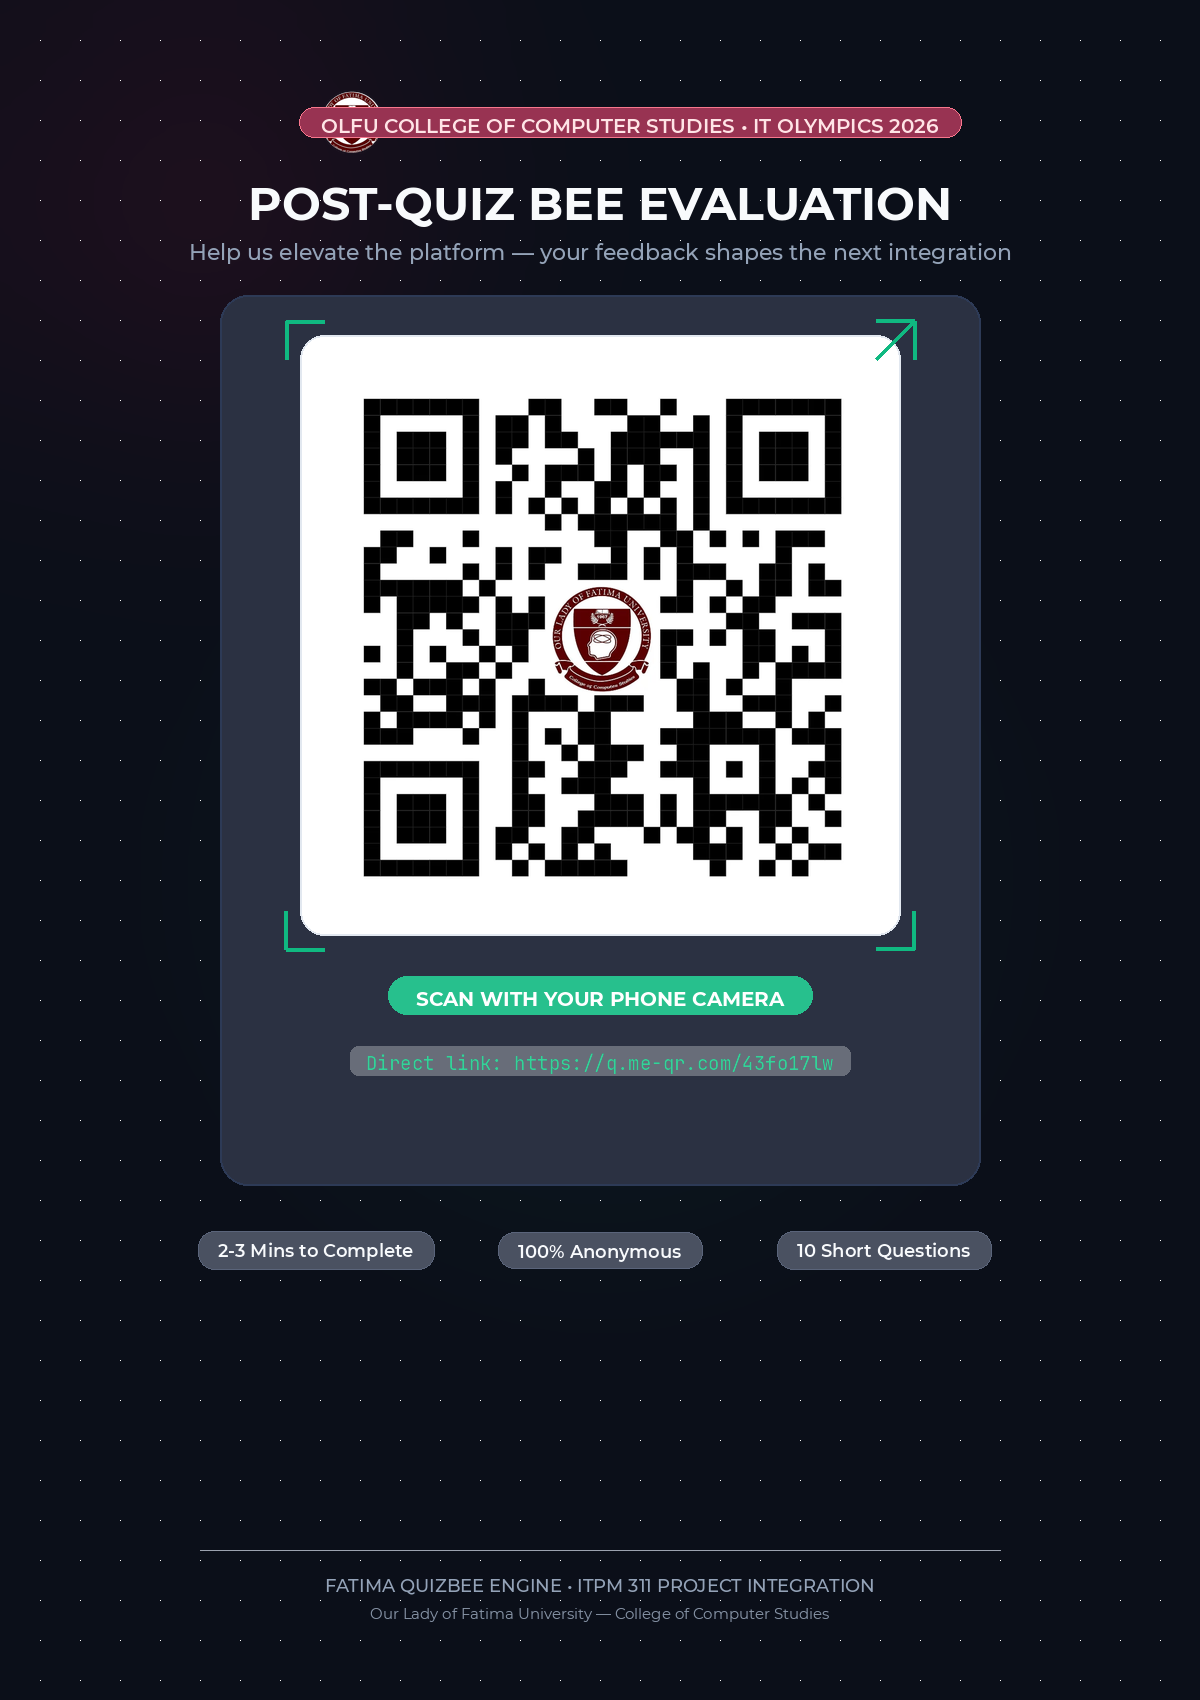
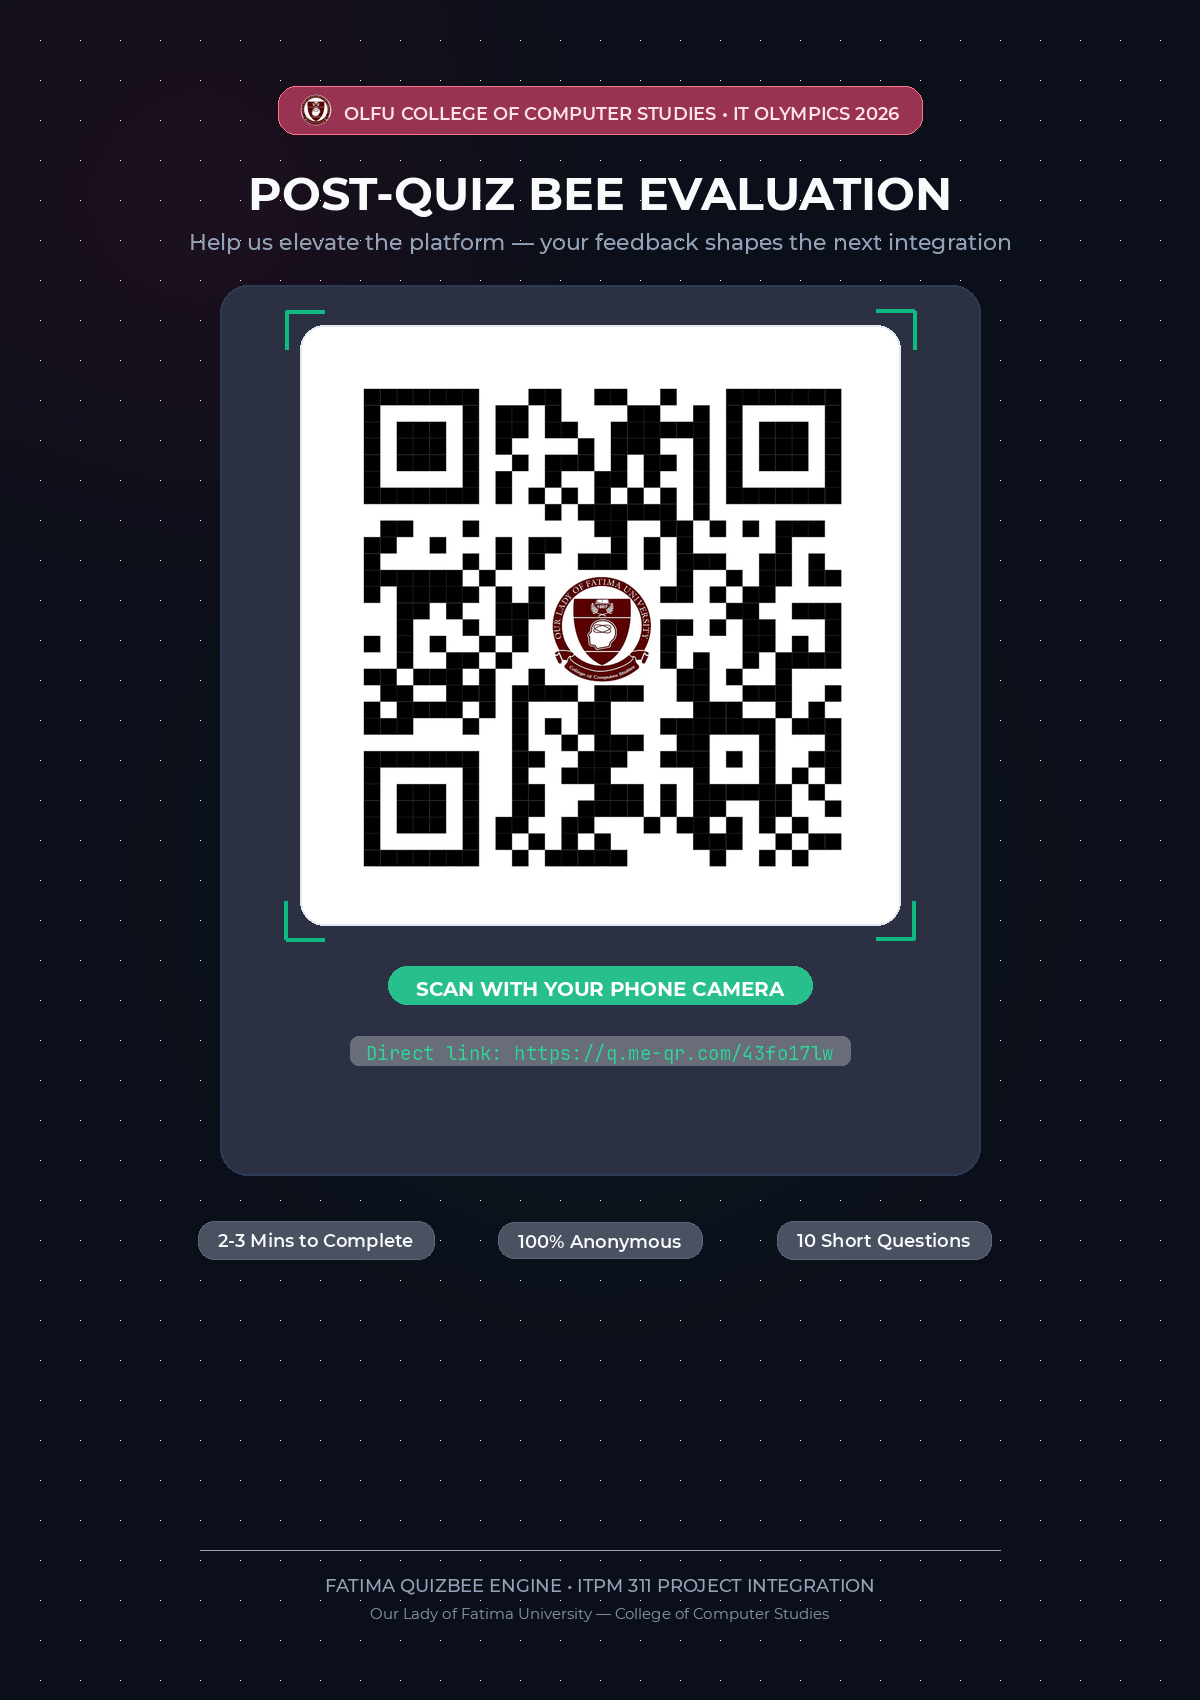
fix(standee): eliminate header emblem overlap and restore symmetrical 90-deg corner reticles

Changed region(s): [[0.1542, 0.0312, 0.8325, 0.6547], [0.1542, 0.6859, 0.8325, 0.7482]]

diff --git a/scripts/generate_qr_frames.py b/scripts/generate_qr_frames.py
@@ -31,8 +31,8 @@ def load_font(path, size):
     except Exception:
         return ImageFont.load_default()
 
-def draw_corner_reticles(draw, box, length=32, thickness=4, color=(16, 185, 129, 255), offset=14):
-    """Draw high-tech minimal camera viewfinder corner brackets."""
+def draw_corner_reticles(draw, box, length=38, thickness=4, color=(16, 185, 129, 255), offset=14):
+    """Draw high-tech minimal camera viewfinder corner brackets (100% uniform 90-degree brackets)."""
     x1, y1, x2, y2 = box
     x1 -= offset
     y1 -= offset
@@ -43,10 +43,8 @@ def draw_corner_reticles(draw, box, length=32, thickness=4, color=(16, 185, 129,
     draw.line([(x1, y1), (x1 + length, y1)], fill=color, width=thickness)
     draw.line([(x1, y1), (x1, y1 + length)], fill=color, width=thickness)
     
-    # Top-Right
+    # Top-Right (FIXED: Perfectly symmetrical horizontal & vertical segments, NO diagonal line!)
     draw.line([(x2, y1), (x2 - length, y1)], fill=color, width=thickness)
-    draw.line([(x2, y1), (x2 - length, y1 + length)], fill=color, width=thickness)
-    # Correct top-right vertical line
     draw.line([(x2, y1), (x2, y1 + length)], fill=color, width=thickness)
     
     # Bottom-Left
@@ -86,6 +84,40 @@ def draw_pill(draw, x, y, text, font, bg_color, text_color, border_color=None, p
     draw.text((x - tw // 2, y - th // 2 - 2), text, font=font, fill=text_color)
     return box
 
+def draw_badge_with_logo(canvas, draw, x, y, text, font, bg_color, text_color, border_color=None,
+                        logo_path=CCS_LOGO_PATH, logo_size=32, pad_x=20, pad_y=7, radius=18, align="center"):
+    """Draw a uniform, perfectly aligned pill badge with inline logo and typography (ZERO overlap)."""
+    tw, th = text_size(draw, text, font)
+    has_logo = os.path.exists(logo_path)
+    actual_logo_w = logo_size if has_logo else 0
+    gap = 12 if has_logo else 0
+    
+    total_inner_w = actual_logo_w + gap + tw
+    pill_w = total_inner_w + pad_x * 2
+    pill_h = max(logo_size, th) + pad_y * 2
+    
+    if align == "center":
+        box = [x - pill_w // 2, y - pill_h // 2, x + pill_w // 2, y + pill_h // 2]
+        start_x = x - total_inner_w // 2
+    else:  # left align
+        box = [x, y - pill_h // 2, x + pill_w, y + pill_h // 2]
+        start_x = x + pad_x
+        
+    draw.rounded_rectangle(box, radius=radius, fill=bg_color, outline=border_color, width=1 if border_color else 0)
+    
+    if has_logo:
+        try:
+            logo = Image.open(logo_path).convert("RGBA")
+            logo = logo.resize((logo_size, logo_size), Image.Resampling.LANCZOS)
+            canvas.paste(logo, (start_x, y - logo_size // 2), logo)
+        except Exception as e:
+            print("Logo load error:", e)
+            
+    text_x = start_x + actual_logo_w + gap
+    text_y = y - th // 2 - 2
+    draw.text((text_x, text_y), text, font=font, fill=text_color)
+    return box
+
 # ==========================================
 # 1. Vertical Standee (1200 x 1700)
 # ==========================================
@@ -100,7 +132,7 @@ def render_standee(dark_mode=True):
         canvas = Image.alpha_composite(canvas, glow_maroon)
         canvas = Image.alpha_composite(canvas, glow_emerald)
         
-        # Subtle grid dots or lines
+        # Subtle grid dots
         grid_draw = ImageDraw.Draw(canvas)
         dot_color = (255, 255, 255, 12)
         for gx in range(40, W, 40):
@@ -121,7 +153,7 @@ def render_standee(dark_mode=True):
     pill_text = (255, 228, 230, 255) if dark_mode else (159, 18, 57, 255)
 
     # Fonts
-    font_badge = load_font(FONT_SEMIBOLD, 20)
+    font_badge = load_font(FONT_SEMIBOLD, 18)
     font_title = load_font(FONT_BOLD, 46)
     font_subtitle = load_font(FONT_MEDIUM, 22)
     font_btn = load_font(FONT_BOLD, 20)
@@ -130,35 +162,29 @@ def render_standee(dark_mode=True):
     font_footer = load_font(FONT_MEDIUM, 18)
     font_footer_sub = load_font(FONT_REGULAR, 15)
 
-    # 1. Header Section
+    # 1. Header Section (Uniform, perfectly centered, NO OVERLAP)
     header_y = 110
     
-    # Optional CCS Logo badge
-    if os.path.exists(CCS_LOGO_PATH):
-        try:
-            logo = Image.open(CCS_LOGO_PATH).convert("RGBA")
-            logo = logo.resize((64, 64), Image.Resampling.LANCZOS)
-            canvas.paste(logo, (W // 2 - 280, header_y - 20), logo)
-        except Exception as e:
-            print("Logo load error:", e)
+    # Unified pill badge with integrated CCS emblem
+    draw_badge_with_logo(canvas, draw, W // 2, header_y,
+                        "OLFU COLLEGE OF COMPUTER STUDIES • IT OLYMPICS 2026",
+                        font_badge, pill_bg, pill_text, pill_border,
+                        logo_path=CCS_LOGO_PATH, logo_size=32, pad_x=22, pad_y=8, radius=18, align="center")
 
-    draw_pill(draw, W // 2 + 30, header_y + 12, "OLFU COLLEGE OF COMPUTER STUDIES • IT OLYMPICS 2026",
-              font_badge, pill_bg, pill_text, pill_border, pad_x=22, pad_y=8, radius=18)
-
-    # Title
+    # Title: "POST-QUIZ BEE EVALUATION" (Centered with ample breathing room)
     title_text = "POST-QUIZ BEE EVALUATION"
     tw, th = text_size(draw, title_text, font_title)
-    draw.text((W // 2 - tw // 2, header_y + 65), title_text, font=font_title, fill=text_primary)
+    draw.text((W // 2 - tw // 2, header_y + 55), title_text, font=font_title, fill=text_primary)
 
-    # Subtitle
+    # Subtitle: "Help us elevate the platform — your feedback shapes the next integration"
     sub_text = "Help us elevate the platform — your feedback shapes the next integration"
     sw, sh = text_size(draw, sub_text, font_subtitle)
-    draw.text((W // 2 - sw // 2, header_y + 128), sub_text, font=font_subtitle, fill=text_secondary)
+    draw.text((W // 2 - sw // 2, header_y + 118), sub_text, font=font_subtitle, fill=text_secondary)
 
     # 2. Hero QR Card Container
     card_w, card_h = 760, 890
     card_x1 = (W - card_w) // 2
-    card_y1 = header_y + 185
+    card_y1 = header_y + 175
     card_x2 = card_x1 + card_w
     card_y2 = card_y1 + card_h
 
@@ -181,7 +207,7 @@ def render_standee(dark_mode=True):
         qr_scaled = qr_img.resize((qr_size, qr_size), Image.Resampling.LANCZOS)
         canvas.paste(qr_scaled, (qr_cx - qr_size // 2, qr_cy - qr_size // 2), qr_scaled)
 
-    # Draw sleek viewfinder corner reticles around the QR box
+    # Draw sleek viewfinder corner reticles around the QR box (FIXED: 100% UNIFORM TOP-RIGHT CORNER)
     draw_corner_reticles(draw, qr_box, length=38, thickness=4, color=reticle_color, offset=14)
 
     # "POINT CAMERA TO SCAN" Action Pill
@@ -194,7 +220,6 @@ def render_standee(dark_mode=True):
     link_y = btn_y + 55
     link_text = f"Direct link: {FALLBACK_URL}"
     lw, lh = text_size(draw, link_text, font_mono)
-    # Subtle link box
     draw.rounded_rectangle([W // 2 - lw // 2 - 16, link_y - 4, W // 2 + lw // 2 + 16, link_y + lh + 4],
                            radius=8, fill=(15, 23, 42, 160) if dark_mode else (241, 245, 249, 255))
     draw.text((W // 2 - lw // 2, link_y), link_text, font=font_mono, fill=text_accent)
@@ -254,7 +279,6 @@ def render_stage(dark_mode=True):
         canvas = Image.alpha_composite(canvas, glow_maroon)
         canvas = Image.alpha_composite(canvas, glow_emerald)
         
-        # Subtle grid dots
         grid_draw = ImageDraw.Draw(canvas)
         dot_color = (255, 255, 255, 10)
         for gx in range(40, W, 40):
@@ -263,7 +287,6 @@ def render_stage(dark_mode=True):
 
     draw = ImageDraw.Draw(canvas)
 
-    # Theme colors
     text_primary = (248, 250, 252, 255) if dark_mode else (15, 23, 42, 255)
     text_secondary = (148, 163, 184, 255) if dark_mode else (100, 116, 139, 255)
     text_accent = (52, 211, 153, 255) if dark_mode else (5, 150, 105, 255)
@@ -274,7 +297,6 @@ def render_stage(dark_mode=True):
     pill_border = (244, 63, 94, 180) if dark_mode else (244, 114, 182, 180)
     pill_text = (255, 228, 230, 255) if dark_mode else (159, 18, 57, 255)
 
-    # Fonts
     font_badge = load_font(FONT_SEMIBOLD, 18)
     font_hero = load_font(FONT_BOLD, 52)
     font_hero_sub = load_font(FONT_MEDIUM, 24)
@@ -289,48 +311,35 @@ def render_stage(dark_mode=True):
     col_x = 130
     top_y = 120
 
-    # Badge Row
-    if os.path.exists(CCS_LOGO_PATH):
-        try:
-            logo = Image.open(CCS_LOGO_PATH).convert("RGBA")
-            logo = logo.resize((52, 52), Image.Resampling.LANCZOS)
-            canvas.paste(logo, (col_x, top_y - 12), logo)
-        except Exception as e:
-            print("Logo error:", e)
+    # Unified Left-Aligned Badge
+    draw_badge_with_logo(canvas, draw, col_x, top_y + 14,
+                        "OLFU IT OLYMPICS 2026 • OFFICIAL EVALUATION",
+                        font_badge, pill_bg, pill_text, pill_border,
+                        logo_path=CCS_LOGO_PATH, logo_size=32, pad_x=20, pad_y=7, radius=16, align="left")
 
-    draw_pill(draw, col_x + 320, top_y + 14, "OLFU IT OLYMPICS 2026 • OFFICIAL EVALUATION",
-              font_badge, pill_bg, pill_text, pill_border, pad_x=20, pad_y=8, radius=16)
-
-    # Main Hero Title
     hero_title = "Participant Evaluation"
     draw.text((col_x, top_y + 65), hero_title, font=font_hero, fill=text_primary)
 
-    # Hero Subtitle
     hero_sub = "Help us elevate the platform — your feedback shapes the next integration."
     draw.text((col_x, top_y + 140), hero_sub, font=font_hero_sub, fill=text_secondary)
 
-    # Bullet / Value props
     bullets = [
-        ("⚡ Quick & Anonymous", "Takes only 2-3 minutes. All responses are 100% confidential."),
-        ("🎯 Real-Time Experience", "Rate interface clarity, countdown pacing, and buzzer responsiveness."),
-        ("💡 Suggest Enhancements", "Directly guide the development roadmap for IT Olympics 2027.")
+        ("Quick & Anonymous", "Takes only 2-3 minutes. All responses are 100% confidential."),
+        ("Real-Time Experience", "Rate interface clarity, countdown pacing, and buzzer responsiveness."),
+        ("Suggest Enhancements", "Directly guide the development roadmap for IT Olympics 2027.")
     ]
 
     bullet_start_y = top_y + 220
     for i, (b_title, b_desc) in enumerate(bullets):
         by = bullet_start_y + i * 82
-        # Bullet indicator box
         draw.rounded_rectangle([col_x, by, col_x + 36, by + 36], radius=10,
                                fill=(16, 185, 129, 40) if dark_mode else (241, 245, 249, 255),
                                outline=reticle_color, width=1)
-        # Checkmark
         draw.line([(col_x + 10, by + 18), (col_x + 16, by + 24), (col_x + 26, by + 12)],
                   fill=reticle_color, width=3)
-        # Text
         draw.text((col_x + 52, by + 1), b_title, font=font_bullet_title, fill=text_primary)
         draw.text((col_x + 52, by + 27), b_desc, font=font_bullet_desc, fill=text_secondary)
 
-    # Workstation isolate notice & fallback link
     notice_box_y = bullet_start_y + 275
     nb_w, nb_h = 760, 115
     draw.rounded_rectangle([col_x, notice_box_y, col_x + nb_w, notice_box_y + nb_h],
@@ -338,7 +347,7 @@ def render_stage(dark_mode=True):
                            fill=(18, 25, 41, 200) if dark_mode else (241, 245, 249, 255),
                            outline=(45, 58, 86, 180) if dark_mode else (226, 232, 240, 255), width=1)
 
-    notice_icon_text = "🔒 Lab Network Isolation Notice:"
+    notice_icon_text = "NOTE: Lab Network Isolation Notice:"
     draw.text((col_x + 24, notice_box_y + 18), notice_icon_text, font=font_notice, fill=(251, 191, 36, 255))
     notice_sub = "Lab workstations are isolated from WAN. Please scan using your mobile phone camera."
     draw.text((col_x + 24, notice_box_y + 44), notice_sub, font=font_notice, fill=text_secondary)
@@ -346,17 +355,15 @@ def render_stage(dark_mode=True):
     direct_link_text = f"Direct browser link: {FALLBACK_URL}"
     draw.text((col_x + 24, notice_box_y + 74), direct_link_text, font=font_mono, fill=text_accent)
 
-    # Right Column: Framed QR Card (X: 1150 to 1770)
+    # Right Column: Framed QR Card
     card_w, card_h = 620, 770
     card_x1 = 1170
     card_y1 = 120
     card_x2 = card_x1 + card_w
     card_y2 = card_y1 + card_h
 
-    # Card backdrop
     draw.rounded_rectangle([card_x1, card_y1, card_x2, card_y2], radius=28, fill=card_bg, outline=card_border, width=2)
 
-    # Pristine white QR box
     qr_canvas_size = 500
     qr_cx = card_x1 + card_w // 2
     qr_cy = card_y1 + 40 + qr_canvas_size // 2
@@ -364,27 +371,23 @@ def render_stage(dark_mode=True):
               qr_cx + qr_canvas_size // 2, qr_cy + qr_canvas_size // 2]
     draw.rounded_rectangle(qr_box, radius=22, fill=(255, 255, 255, 255), outline=(226, 232, 240, 255), width=2)
 
-    # Paste QR
     if os.path.exists(SOURCE_QR_PATH):
         qr_img = Image.open(SOURCE_QR_PATH).convert("RGBA")
         qr_size = 430
         qr_scaled = qr_img.resize((qr_size, qr_size), Image.Resampling.LANCZOS)
         canvas.paste(qr_scaled, (qr_cx - qr_size // 2, qr_cy - qr_size // 2), qr_scaled)
 
-    # Viewfinder reticles
+    # Uniform 90-degree corner reticles (FIXED)
     draw_corner_reticles(draw, qr_box, length=34, thickness=4, color=reticle_color, offset=14)
 
-    # Card bottom button
     btn_y = card_y1 + 610
     btn_bg = (16, 185, 129, 230) if dark_mode else (15, 23, 42, 240)
     draw_pill(draw, qr_cx, btn_y, "POINT CAMERA TO SCAN", font_btn, btn_bg, (255, 255, 255, 255), pad_x=28, pad_y=12, radius=20)
 
-    # Status tag under button
-    tag_text = "● Ready to Scan • No App Required"
+    tag_text = "Ready to Scan • No App Required"
     tw, th = text_size(draw, tag_text, font_notice)
     draw.text((qr_cx - tw // 2, btn_y + 46), tag_text, font=font_notice, fill=text_secondary)
 
-    # Bottom Full-width Footer Bar
     bar_y = H - 75
     draw.line([(100, bar_y), (W - 100, bar_y)], fill=(45, 58, 86, 120) if dark_mode else (226, 232, 240, 255), width=1)
     
@@ -395,7 +398,6 @@ def render_stage(dark_mode=True):
     rw, rh = text_size(draw, foot_right, font_footer)
     draw.text((W - 120 - rw, bar_y + 24), foot_right, font=font_footer, fill=text_secondary)
 
-    # Save
     filename = "evaluation_qr_stage_dark.png" if dark_mode else "evaluation_qr_stage_light.png"
     filepath = os.path.join(OUTPUT_DIR, filename)
     canvas.save(filepath, "PNG", dpi=(300, 300))
@@ -403,9 +405,9 @@ def render_stage(dark_mode=True):
     return filepath
 
 if __name__ == "__main__":
-    print("Generating framed QR assets...")
+    print("Generating fixed framed QR assets...")
     f1 = render_standee(dark_mode=True)
     f2 = render_standee(dark_mode=False)
     f3 = render_stage(dark_mode=True)
     f4 = render_stage(dark_mode=False)
-    print("All framed QR assets generated successfully!")
+    print("All fixed framed QR assets generated successfully!")
